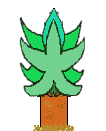
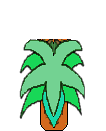
Worked on palm tree alternate image and map UI.

diff --git a/MyGame-core/src/ui/MapUi.java b/MyGame-core/src/ui/MapUi.java
@@ -1,10 +1,13 @@
 package ui;
 
-import com.badlogic.gdx.graphics.Texture;
+import java.awt.Point;
+
 import com.badlogic.gdx.graphics.g2d.SpriteBatch;
 import com.mygdx.mygame.MyGame;
 
+import gameobjects.gamecharacters.Player;
 import loaders.ImageLoader;
+import maps.MapLocationFinder;
 import screens.Screens;
 
 /**
@@ -14,10 +17,13 @@ import screens.Screens;
  */
 public class MapUi extends Screens {
 
+	private Point playerLocation;
+
 	public static boolean mapShouldBeRendered;
 
 	// Use this to make player location icon flash.
-	private int timer = 0;
+	private int timer                 = 0;
+	private final int MAX_TIMER_VALUE = 16;
 
 	/**
 	 * Constructor.
@@ -39,9 +45,10 @@ public class MapUi extends Screens {
 
 	public void updateWorldMapUi() {
 		timer++;
-		if (timer > 25) {
+		if (timer > MAX_TIMER_VALUE) {
 			timer = 0;
 		}
+		playerLocation  = MapLocationFinder.getPlayerLocationOnMap((Player) myGame.getGameObject(Player.PLAYER_ONE));
 	}
 
 	/**
@@ -52,41 +59,102 @@ public class MapUi extends Screens {
 	 */
 	public void renderWorldMapUi(SpriteBatch batch, ImageLoader imageLoader, MyGame myGame) {
 		if (mapShouldBeRendered) {
-			Texture texture = null;
-
-			// Make map look like player location is flashing.
-			// This is the "unflashed" map.
-			if (timer < 12) {
-				texture = imageLoader.worldMapFake;
-			} else {
-				// This is the "flashed" map.
-				if (myGame.gameScreen.townHandler.getMexicoBeach().isInTown()) {
-					texture = imageLoader.worldMapMexicoBeach;
-				} else if (myGame.gameScreen.townHandler.getPortStJoe().isInTown()) {
-					texture = imageLoader.worldMapPortStJoe;
-				} else if (myGame.gameScreen.townHandler.getWewa().isInTown()) {
-					texture = imageLoader.worldMapWewa;
-				} else if (myGame.gameScreen.townHandler.getApalachicola().isInTown()) {
-					texture = imageLoader.worldMapApalachicola;
-				} else if (myGame.gameScreen.townHandler.getStGeorge().isInTown()) {
-					texture = imageLoader.worldMapStGeorge;
-				} else if (myGame.gameScreen.townHandler.getThePoint().isInTown()) {
-					texture = imageLoader.worldMapThePoint;
-				} else if (myGame.gameScreen.townHandler.getCapeSanBlas().isInTown()) {
-					texture = imageLoader.worldMapCapeSanBlas;
-				} else {
-					// If player is not in town, just draw map with no icon for now.
-					texture = imageLoader.worldMapFake;
-				}
-			}
 			batch.draw(
-					texture,
+					imageLoader.worldMapFake,
 					camera.position.x - getViewportWidth() / denominatorOffset + borderShrinkOffset,
 					(camera.position.y - verticalHeight / denominatorOffset) + camera.viewportHeight + 0.5f,
 					camera.viewportWidth - borderShrinkOffset * 2, 
 					-camera.viewportHeight
 					);
 			renderUiNavigationBar(imageLoader.mapNavigationBar, batch);
+			flashPlayerChunkLocation(batch, imageLoader);
+		}
+	}
+
+	/**
+	 * Flashes the player locator in whichever chunk the player currently resides.
+	 * 
+	 * @param SpriteBatch batch
+	 * @param ImageLoader imageLoader
+	 */
+	private void flashPlayerChunkLocation(SpriteBatch batch, ImageLoader imageLoader) {
+		float xChunkLocation  = 0;
+		float yChunkLocation  = 0;
+
+		// Width and heighth of a chunk represented via UI map.
+		int resizeChunkValue  = 8;
+		float chunkWidthOnUi  = 25.3f / resizeChunkValue;
+		float chunkHeightOnUi = 13.5f / resizeChunkValue;
+
+		float cameraWidthSize = camera.position.x - getViewportWidth();
+		float offsetForCamera = 16.4f;
+
+		// Find player's x chunk position.
+		switch (playerLocation.x) {
+		case 1:
+			xChunkLocation = cameraWidthSize + offsetForCamera;
+			break;
+		case 2:
+			xChunkLocation = cameraWidthSize + offsetForCamera + chunkWidthOnUi;
+			break;
+		case 3:
+			xChunkLocation = cameraWidthSize + offsetForCamera + chunkWidthOnUi * 2;
+			break;
+		case 4:
+			xChunkLocation = cameraWidthSize + offsetForCamera + chunkWidthOnUi * 3;
+			break;
+		case 5:
+			xChunkLocation = cameraWidthSize + offsetForCamera + chunkWidthOnUi * 4;
+			break;
+		case 6:
+			xChunkLocation = cameraWidthSize + offsetForCamera + chunkWidthOnUi * 5;
+			break;
+		case 7:
+			xChunkLocation = cameraWidthSize + offsetForCamera + chunkWidthOnUi * 6;
+			break;
+		case 8:
+			xChunkLocation = cameraWidthSize + offsetForCamera + chunkWidthOnUi * 7;
+			break;
+		}
+
+		// Find player's y chunk position.
+		offsetForCamera = 1.2f;
+		switch (playerLocation.y) {
+		case 1:
+			yChunkLocation = camera.position.y - verticalHeight / denominatorOffset + offsetForCamera;
+			break;
+		case 2:
+			yChunkLocation = camera.position.y - verticalHeight / denominatorOffset + offsetForCamera + chunkHeightOnUi;
+			break;
+		case 3:
+			yChunkLocation = camera.position.y - verticalHeight / denominatorOffset + offsetForCamera + chunkHeightOnUi * 2;
+			break;
+		case 4:
+			yChunkLocation = camera.position.y - verticalHeight / denominatorOffset + offsetForCamera + chunkHeightOnUi * 3;
+			break;
+		case 5:
+			yChunkLocation = camera.position.y - verticalHeight / denominatorOffset + offsetForCamera + chunkHeightOnUi * 4;
+			break;
+		case 6:
+			yChunkLocation = camera.position.y - verticalHeight / denominatorOffset + offsetForCamera + chunkHeightOnUi * 5;
+			break;
+		case 7:
+			yChunkLocation = camera.position.y - verticalHeight / denominatorOffset + offsetForCamera + chunkHeightOnUi * 6;
+			break;
+		case 8:
+			yChunkLocation = camera.position.y - verticalHeight / denominatorOffset + offsetForCamera + chunkHeightOnUi * 7;
+			break;
+		}
+
+		if (timer < MAX_TIMER_VALUE / 2) {
+			int locationOffset = 2;
+			int resizeValue    = 2;
+			batch.draw(imageLoader.locationSkull, 
+					xChunkLocation + locationOffset,
+					yChunkLocation + locationOffset, 
+					chunkWidthOnUi / resizeValue, 
+					-chunkHeightOnUi / resizeValue
+					);
 		}
 	}
 }

diff --git a/MyGame-core/src/maps/MapLocationFinder.java b/MyGame-core/src/maps/MapLocationFinder.java
@@ -1,0 +1,85 @@
+package maps;
+
+import java.awt.Point;
+
+import gameobjects.gamecharacters.Player;
+import helpers.GameAttributeHelper;
+
+/**
+ * Locates player within game world in order to transfer coordinates onto UI map.
+ * 
+ * @author Fabulous Fellini
+ *
+ */
+public class MapLocationFinder {
+
+	static float x = 0;
+	static float y = 0;
+	static float xChunk = 0;
+	static float yChunk = 0;
+	
+	static Point playerLocation = new Point(0, 0);
+
+	/**
+	 * This method will take the player and find his coordinates in order to tranfer
+	 * these values to the map UI.
+	 * 
+	 * @param Player player
+	 */
+	public static Point getPlayerLocationOnMap(Player player) {
+
+		playerLocation.x = (int) getPlayerChunkPositionX(player);
+		playerLocation.y = (int) getPlayerChunkPositionY(player);
+
+		//System.out.println("Player position:" + x + ", " + y);
+		return playerLocation;
+
+	}
+
+	private static float getPlayerChunkPositionX(Player player) {
+		x = player.getX();
+		// Find player x position.
+		if (x > GameAttributeHelper.CHUNK_EIGHT_X_POSITION_START) {
+			xChunk = 8;
+		} else if (x > GameAttributeHelper.CHUNK_SEVEN_X_POSITION_START) {
+			xChunk = 7;
+		} else if (x > GameAttributeHelper.CHUNK_SIX_X_POSITION_START) {
+			xChunk = 6;
+		} else if (x > GameAttributeHelper.CHUNK_FIVE_X_POSITION_START) {
+			xChunk = 5;
+		} else if (x > GameAttributeHelper.CHUNK_FOUR_X_POSITION_START) {
+			xChunk = 4;
+		} else if (x > GameAttributeHelper.CHUNK_THREE_X_POSITION_START) {
+			xChunk = 3;
+		} else if (x > GameAttributeHelper.CHUNK_TWO_X_POSITION_START) {
+			xChunk = 2;
+		} else if (x > GameAttributeHelper.CHUNK_ONE_X_POSITION_START) {
+			xChunk = 1;
+		}
+		return xChunk;
+	}
+
+	private static float getPlayerChunkPositionY(Player player) {
+		y = player.getY();
+		// Find player x position.
+		if (y > GameAttributeHelper.CHUNK_EIGHT_Y_POSITION_START) {
+			yChunk = 8;
+		} else if (y > GameAttributeHelper.CHUNK_SEVEN_Y_POSITION_START) {
+			yChunk = 7;
+		} else if (y > GameAttributeHelper.CHUNK_SIX_Y_POSITION_START) {
+			yChunk = 6;
+		} else if (y > GameAttributeHelper.CHUNK_FIVE_Y_POSITION_START) {
+			yChunk = 5;
+		} else if (y > GameAttributeHelper.CHUNK_FOUR_Y_POSITION_START) {
+			yChunk = 4;
+		} else if (y > GameAttributeHelper.CHUNK_THREE_Y_POSITION_START) {
+			yChunk = 3;
+		} else if (y > GameAttributeHelper.CHUNK_TWO_Y_POSITION_START) {
+			yChunk = 2;
+		} else if (y > GameAttributeHelper.CHUNK_ONE_Y_POSITION_START) {
+			yChunk = 1;
+		}
+		return yChunk;
+	}
+
+}

diff --git a/MyGame-core/src/loaders/ImageLoader.java b/MyGame-core/src/loaders/ImageLoader.java
@@ -107,6 +107,7 @@ public class ImageLoader {
 	public Texture mapNavigationBar;
 	public Texture inventoryScreen;
 	public Texture inventoryLabel;
+	public Texture locationSkull;
 
 	// Logo objects.
 	public Texture splashScreenLogo;
@@ -127,7 +128,7 @@ public class ImageLoader {
 		// Nature Objects.
 		rock 								   = new Texture(Gdx.files.internal("artwork/nature/Rock.png"));
 		logs                                   = new Texture(Gdx.files.internal("artwork/nature/Logs.png"));
-		palmTreeThree                          = new Texture(Gdx.files.internal("artwork/nature/PalmTreeNewOriginalAlternate.png"));
+		palmTreeThree                          = new Texture(Gdx.files.internal("artwork/nature/PalmTreeNewOriginal3_02.png"));
 		palmTree					  	       = new Texture(Gdx.files.internal("artwork/nature/PalmTreeNewOriginal3.png"));
 		plant                         	       = new Texture(Gdx.files.internal("artwork/nature/PlantNewOriginal.png"));
 		drSuessTree                            = new Texture(Gdx.files.internal("artwork/nature/DrSuessTree.png"));
@@ -222,7 +223,8 @@ public class ImageLoader {
 		inventoryNavigationBar                 = new Texture(Gdx.files.internal("artwork/ui/UiInventory.png"));
 		inventoryScreen                        = new Texture(Gdx.files.internal("artwork/ui/InventoryScreen.png"));
 		inventoryLabel                         = new Texture(Gdx.files.internal("artwork/ui/InventoryLabel.png"));
-
+		locationSkull                          = new Texture(Gdx.files.internal("artwork/ui/Skull.png"));
+		
 		// Logo objects.
 		splashScreenLogo                       = new Texture(Gdx.files.internal("artwork/logos/logo_ffg.png"));
 		titleScreenLogo                        = new Texture(Gdx.files.internal("artwork/logos/GoldenAgeLogo.png"));
@@ -332,6 +334,7 @@ public class ImageLoader {
 		inventoryNavigationBar.dispose();
 		inventoryScreen.dispose();
 		inventoryLabel.dispose();
+		locationSkull.dispose();
 
 		// Logo objects.
 		splashScreenLogo.dispose();

diff --git a/MyGame-core/src/screens/GameScreen.java b/MyGame-core/src/screens/GameScreen.java
@@ -39,8 +39,6 @@ public class GameScreen extends Screens {
 	private HealthUi healthUi;
 	//private GuiScreen guiScreen = new GuiScreen(myGame);
 
-	private HeartHandler heartHandler = new HeartHandler();
-
 	public static int cameraWidth = 10;
 
 	/**
@@ -70,12 +68,12 @@ public class GameScreen extends Screens {
 	/**
 	 * Used for transparancy to render clouds.
 	 */
-	private ScreenShader screenShader = new ScreenShader(myGame);
+	//private ScreenShader screenShader = new ScreenShader(myGame);
 
 	/**
 	 * When this screen fades, gameplay starts.
 	 */
-	private ScreenShader screenShaderPostIntro = new ScreenShader(myGame);
+	//private ScreenShader screenShaderPostIntro = new ScreenShader(myGame);
 
 	/**
 	 *  Screen fades in during transitions.
@@ -98,6 +96,8 @@ public class GameScreen extends Screens {
 	public EnemyHandler enemyHandler = new EnemyHandler();
 
 	public TownHandler townHandler = new TownHandler();
+	
+	private HeartHandler heartHandler = new HeartHandler();
 
 	private CutSceneIntro cutSceneIntro;
 
@@ -230,12 +230,13 @@ public class GameScreen extends Screens {
 		GameWorld.updateGameWorld(myGame, mapHandler);
 		mapUi.updateWorldMapUi();
 		townHandler.updateTowns(myGame);
-		screenShader.updateObject();
+		//screenShader.updateObject();
 
 		// Fade into gameplay after intro cutscene.
+		/*
 		if (cutSceneIntro.isCutSceneConcluded()) {
 			screenShaderPostIntro.updateObject();
-		}
+		} */
 
 		// Start missions after intro cutscene.
 		if (cutSceneIntro.isCutSceneConcluded()) {

diff --git a/MyGame-core/src/gameobjects/gamecharacters/PlayerOne.java b/MyGame-core/src/gameobjects/gamecharacters/PlayerOne.java
@@ -3,7 +3,6 @@ package gameobjects.gamecharacters;
 import java.util.ArrayList;
 
 import com.badlogic.gdx.Gdx;
-import com.badlogic.gdx.graphics.Texture;
 import com.badlogic.gdx.graphics.g2d.Animation;
 import com.badlogic.gdx.graphics.g2d.SpriteBatch;
 import com.badlogic.gdx.graphics.g2d.TextureAtlas;
@@ -16,6 +15,7 @@ import handlers.AnimationHandler;
 import inventory.Inventory;
 import loaders.ImageLoader;
 import maps.MapHandler;
+import maps.MapLocationFinder;
 import physics.Lighting.Fire;
 
 /**
@@ -100,6 +100,8 @@ public class PlayerOne extends Player {
 					new TextureAtlas(Gdx.files.internal(playerRenderingPrefix + "playerDownRed.atlas"))
 					);
 		}
+		
+		//System.out.println(MapLocationFinder.getPlayerLocationOnMap(this));
 	}
 
 	/**

diff --git a/MyGame-core/src/gameobjects/gamecharacters/Player.java b/MyGame-core/src/gameobjects/gamecharacters/Player.java
@@ -17,6 +17,7 @@ import inventory.Inventory;
 import loaders.GameObjectLoader;
 import loaders.ImageLoader;
 import maps.MapHandler;
+import maps.MapLocationFinder;
 import particles.DustParticleEmitter;
 import towns.Town;
 
@@ -38,7 +39,7 @@ public class Player extends GameCharacter {
 	
 	protected String playerRenderingPrefix = "artwork/gamecharacters/player/";
 
-	public final static float PLAYER_SPEED = 0.10f;
+	public final static float PLAYER_SPEED = 0.3f;
 
 	public static boolean isInWater = false;
 

diff --git a/MyGame-core/src/maps/MapRenderer.java b/MyGame-core/src/maps/MapRenderer.java
@@ -147,7 +147,7 @@ public class MapRenderer {
 	/**
 	 * Determines if game object is rendering bounds.
 	 * 
-	 * @param GameObject gameObject
+	 * @param Tile gameObject
 	 * @return boolean
 	 */
 	public static boolean gameObjectIsWithinScreenBounds(Tile gameObject) {
